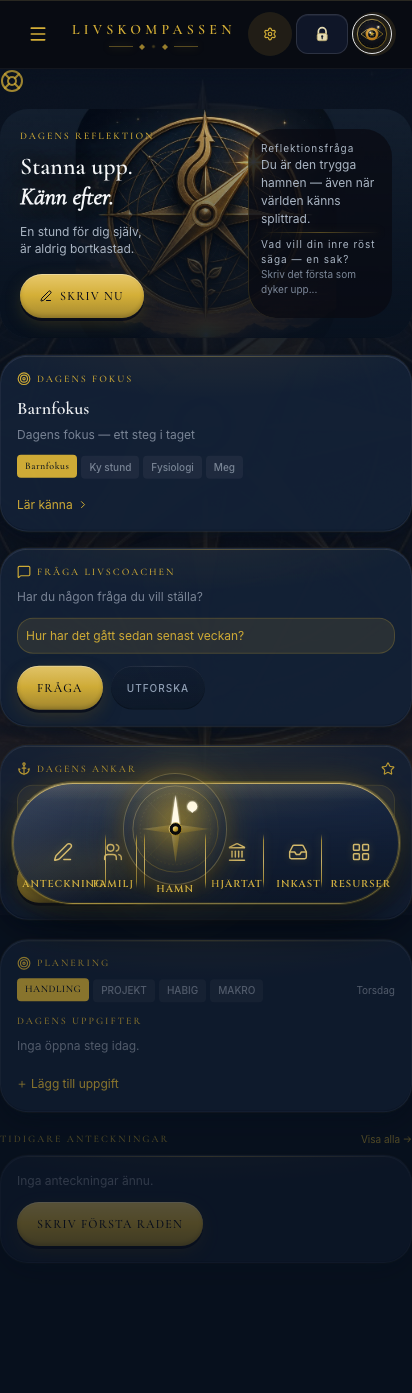
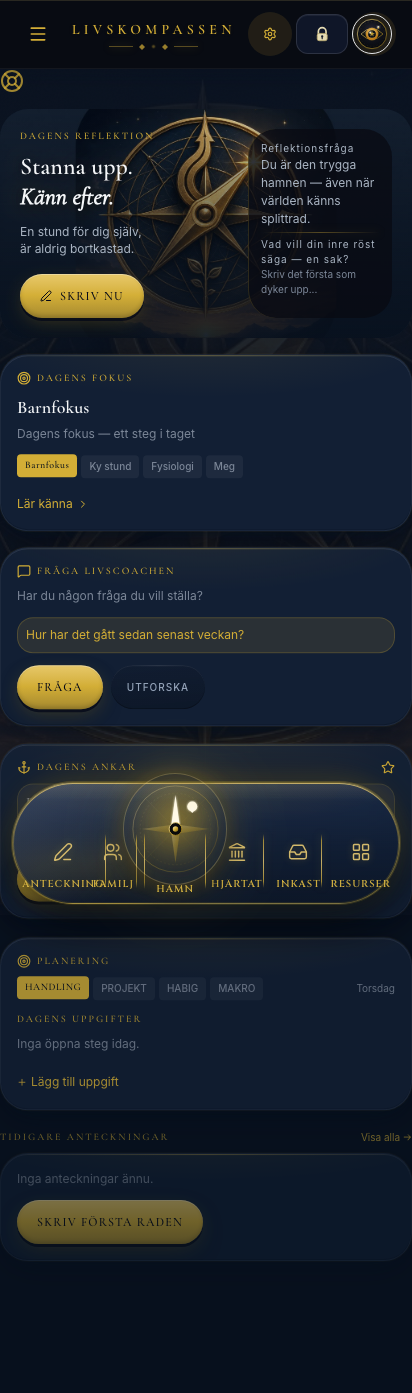
feat(ui): add DockZoneIcon component and dock pixel-diff checklist
- Introduced a new `DockZoneIcon` component for rendering icons associated with different zones in the UI.
- Added a `dock-pixel-diff-checklist.md` to document discrepancies between the design canon and production for the dock interface.

diff --git a/src/styles/dock-kanon-match.css b/src/styles/dock-kanon-match.css
@@ -1,0 +1,130 @@
+/* Dock kanon-match — referens 2026-06-28 (överstyr executive-chrome dock-tokens) */
+
+.dock-shell.dock-shell--reference-dock,
+.dock-shell.dock-shell--basta-design {
+  --dock-stack-height: 7.65rem;
+  --app-dock-clearance: calc(7.25rem + env(safe-area-inset-bottom, 0px) + 0.85rem);
+}
+
+.exec-dock-bar {
+  grid-template-columns: 0.92fr 0.92fr 1.28fr 0.92fr 0.92fr 0.92fr;
+  min-height: 2.45rem;
+  padding: 2.35rem 0.28rem 0.42rem;
+  padding-bottom: calc(0.42rem + env(safe-area-inset-bottom, 0px));
+  border-color: color-mix(in srgb, var(--accent) 38%, transparent);
+  background:
+    linear-gradient(
+      180deg,
+      color-mix(in srgb, var(--accent-light) 24%, transparent) 0%,
+      color-mix(in srgb, var(--accent-light) 6%, transparent) 1px,
+      transparent 2px
+    ),
+    var(--ds-glass-sheen),
+    linear-gradient(
+      180deg,
+      color-mix(in srgb, var(--accent-light) 6%, transparent) 0%,
+      transparent 12%
+    ),
+    linear-gradient(
+      180deg,
+      color-mix(in srgb, var(--ds-glass-bg) 68%, transparent) 0%,
+      color-mix(in srgb, var(--surface) 98%, #020617) 100%
+    );
+  box-shadow:
+    var(--ds-elevation-dock),
+    inset 0 1px 0 color-mix(in srgb, var(--accent-light) 48%, transparent),
+    0 0 0 1px color-mix(in srgb, var(--accent) 12%, transparent),
+    0 12px 36px rgba(0, 0, 0, 0.55),
+    0 0 28px color-mix(in srgb, var(--accent) 9%, transparent);
+}
+
+.exec-dock-bar--extended .exec-dock-bar__side:nth-child(1)::after,
+.exec-dock-bar--extended .exec-dock-bar__side:nth-child(2)::after,
+.exec-dock-bar--extended .exec-dock-bar__side:nth-child(4)::after,
+.exec-dock-bar--extended .exec-dock-bar__side:nth-child(5)::after,
+.exec-dock-bar--mix-e .exec-dock-bar__side:nth-child(1)::after,
+.exec-dock-bar--mix-e .exec-dock-bar__side:nth-child(3)::after,
+.exec-dock-bar--extended .exec-dock-bar__compass-slot::before,
+.exec-dock-bar--extended .exec-dock-bar__compass-slot::after,
+.exec-dock-bar--mix-e .exec-dock-bar__compass-slot::before,
+.exec-dock-bar--mix-e .exec-dock-bar__compass-slot::after {
+  top: 4%;
+  bottom: 8%;
+  box-shadow: 0 0 10px color-mix(in srgb, var(--accent) 42%, transparent);
+}
+
+.exec-dock-bar__label {
+  max-width: 4.1rem;
+  font-family: 'Outfit', system-ui, sans-serif;
+  font-size: 0.5rem;
+  font-weight: 500;
+  letter-spacing: 0.05em;
+  line-height: 1.1;
+  color: color-mix(in srgb, var(--accent-light) 90%, var(--text-muted));
+  text-shadow: 0 0 8px color-mix(in srgb, var(--accent) 14%, transparent);
+}
+
+.exec-dock-bar__glyph {
+  width: 1.3rem;
+  height: 1.3rem;
+  opacity: 0.94;
+  filter: drop-shadow(0 0 5px color-mix(in srgb, var(--accent) 32%, transparent));
+}
+
+.exec-dock-bar__compass-label,
+.dock-shell--basta-design .exec-dock-bar__compass-label {
+  display: none !important;
+}
+
+.exec-dock-bar__compass {
+  width: 7.15rem;
+  height: 7.35rem;
+  margin-top: -6.1rem;
+}
+
+.exec-dock-bar__compass::before {
+  inset: 0.5rem;
+  filter: blur(8px);
+  background: radial-gradient(
+    circle at 50% 42%,
+    color-mix(in srgb, var(--accent) 28%, transparent) 0%,
+    color-mix(in srgb, var(--accent) 10%, transparent) 45%,
+    transparent 72%
+  );
+}
+
+.exec-dock-bar__compass::after {
+  content: none;
+}
+
+.exec-dock-bar__compass--open::after {
+  content: '';
+  position: absolute;
+  inset: -0.1rem;
+  border-radius: 50%;
+  border: 1px solid color-mix(in srgb, var(--accent-light) 42%, transparent);
+  box-shadow:
+    0 0 0 2px color-mix(in srgb, var(--accent) 10%, transparent),
+    0 0 32px color-mix(in srgb, var(--accent) 34%, transparent);
+  pointer-events: none;
+  z-index: 0;
+}
+
+.exec-dock-bar__compass-mark,
+.exec-dock-bar__compass .exec-decor-compass--hero,
+.exec-decor-compass--hero {
+  width: 7rem !important;
+  height: 7rem !important;
+  filter:
+    drop-shadow(0 0 14px color-mix(in srgb, var(--accent) 78%, transparent))
+    drop-shadow(0 0 28px color-mix(in srgb, var(--accent) 42%, transparent))
+    drop-shadow(0 6px 14px rgba(0, 0, 0, 0.45));
+}
+
+.dock-shell--basta-design .exec-dock-bar__label {
+  font-family: 'Outfit', system-ui, sans-serif;
+  font-size: 0.5rem;
+  font-weight: 500;
+  letter-spacing: 0.05em;
+  color: color-mix(in srgb, var(--accent) 90%, var(--text-muted));
+}

diff --git a/src/index.css b/src/index.css
@@ -9,6 +9,7 @@
 @import './styles/redesign-c-aurora-prism.css';
 @import './styles/brushed-brass-neu.css';
 @import './styles/executive-chrome.css';
+@import './styles/dock-kanon-match.css';
 @import './modules/core/ui/homeAliases.css';
 
 @tailwind base;